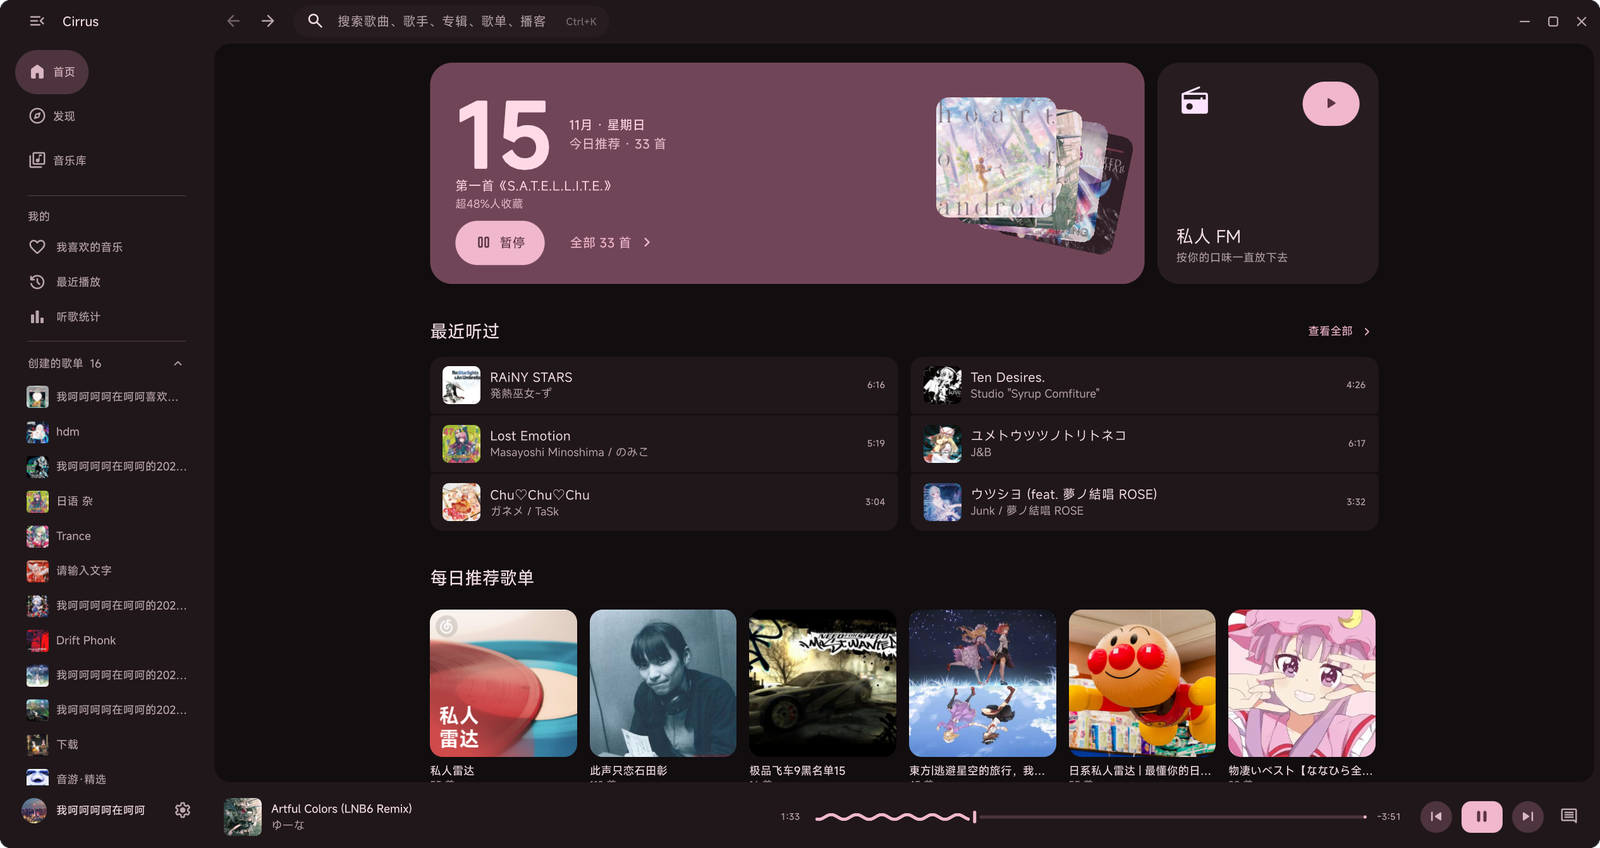
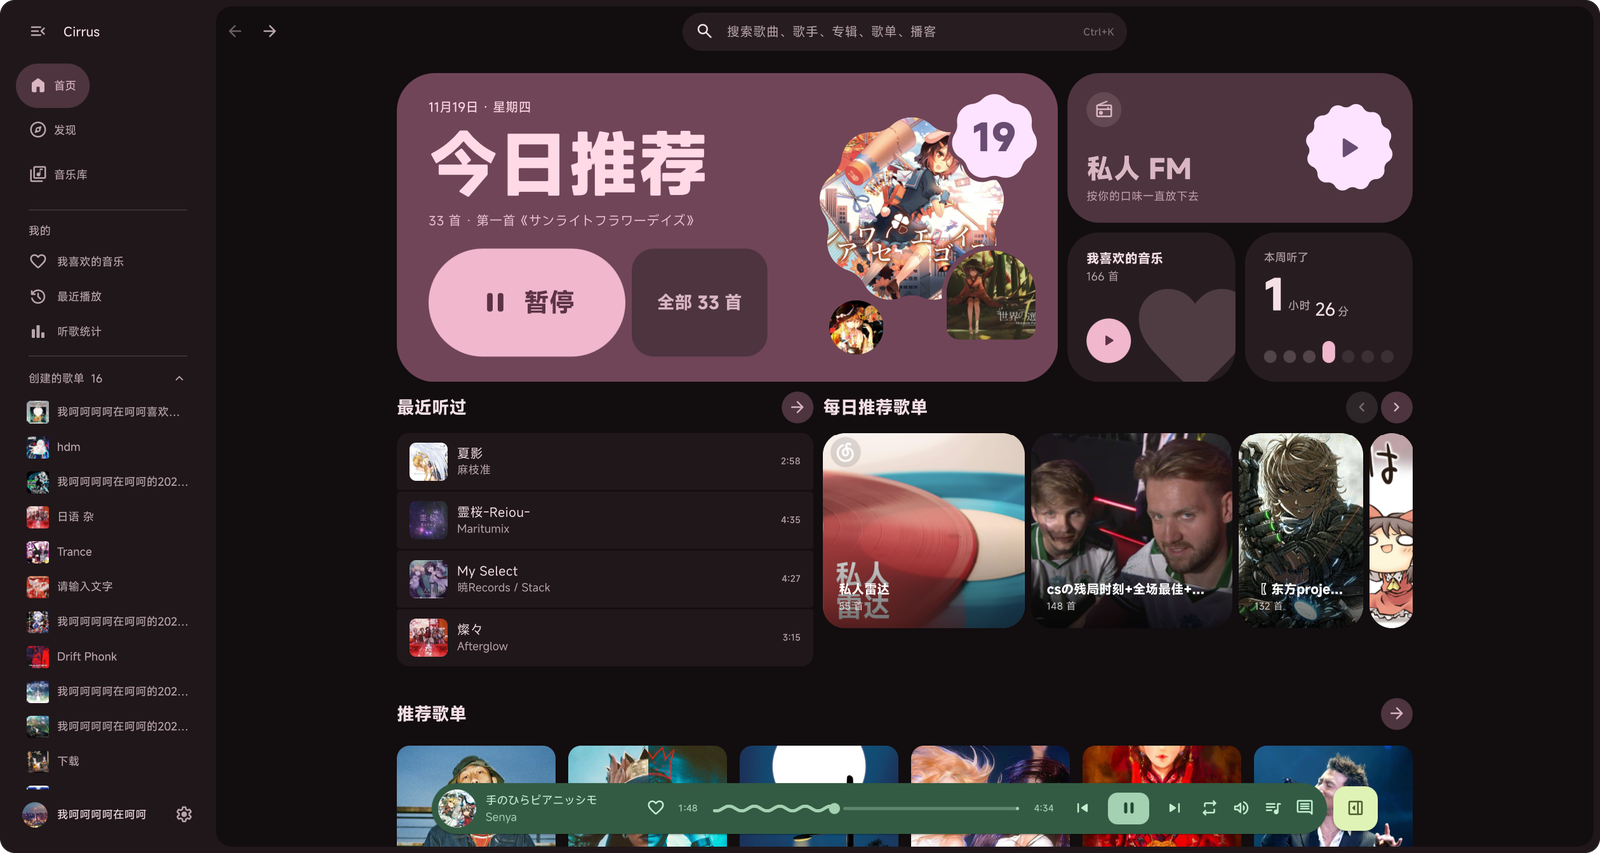
docs: new screenshots in the README (home, side player, Material player)

diff --git a/README.md b/README.md
@@ -17,22 +17,23 @@ Cirrus 是一个非官方的网易云音乐桌面客户端，用 C++ 和 Qt Quic
 
 ![首页](packaging/screenshots/home-dark.png)
 
+| 侧边播放器 | 播放页（Material 风格） |
+| --- | --- |
+| ![侧边播放器](packaging/screenshots/side-player.png) | ![播放页（Material 风格）](packaging/screenshots/player-material.png) |
+
 | 播放页（亮色） | 播放页（暗色） |
 | --- | --- |
 | ![播放页（亮色）](packaging/screenshots/player-light.png) | ![播放页（暗色）](packaging/screenshots/player-dark.png) |
-
-| 首页（亮色） | 歌单 |
-| --- | --- |
-| ![首页（亮色）](packaging/screenshots/home-light.png) | ![歌单](packaging/screenshots/playlist-dark.png) |
 
 ## 功能
 
 - **发现与搜索**：推荐歌单、歌单分类、排行榜、歌手、新碟，每日推荐与私人 FM；搜索歌曲、歌手、专辑、歌单、播客和声音。
 - **音乐库**：创建和收藏的歌单、我喜欢的音乐、收藏的专辑和歌手、最近播放、听歌排行；红心、收藏、关注、新建歌单。
 - **播放**：自己的音频引擎，边下边播、无缝衔接、精确跳转，歌曲缓存可设上限；音质选择、音量均衡。
-- **播放页**：随封面变化的流光背景，逐字歌词、翻译和注音，可拖动排序的播放队列。
+- **播放页**：两种风格：随封面变化的流光背景，或整页取封面颜色的 Material 风格；逐字歌词、翻译和注音，可拖动排序的播放队列。
+- **侧边播放器**：悬浮播放条可以停靠到窗口右侧，显示封面、播放控制，以及歌词或接下来的歌曲。
 - **听歌记录**：同步到网易云的最近播放、听歌排行和听歌足迹；另有本地的听歌统计看板。
-- **桌面集成**：媒体键和系统媒体控制（MPRIS）、托盘、单实例；配色跟随封面或自选主题色，亮色和暗色。
+- **桌面集成**：媒体键和系统媒体控制（MPRIS）、托盘、单实例；配色跟随封面或自选主题色，亮色和暗色；有新版本时提示（向 GitHub 查询，可关闭）。
 - **登录**：扫码、手机号（验证码或密码）、邮箱；登录状态保存在系统钥匙串里。
 
 ## 安装
